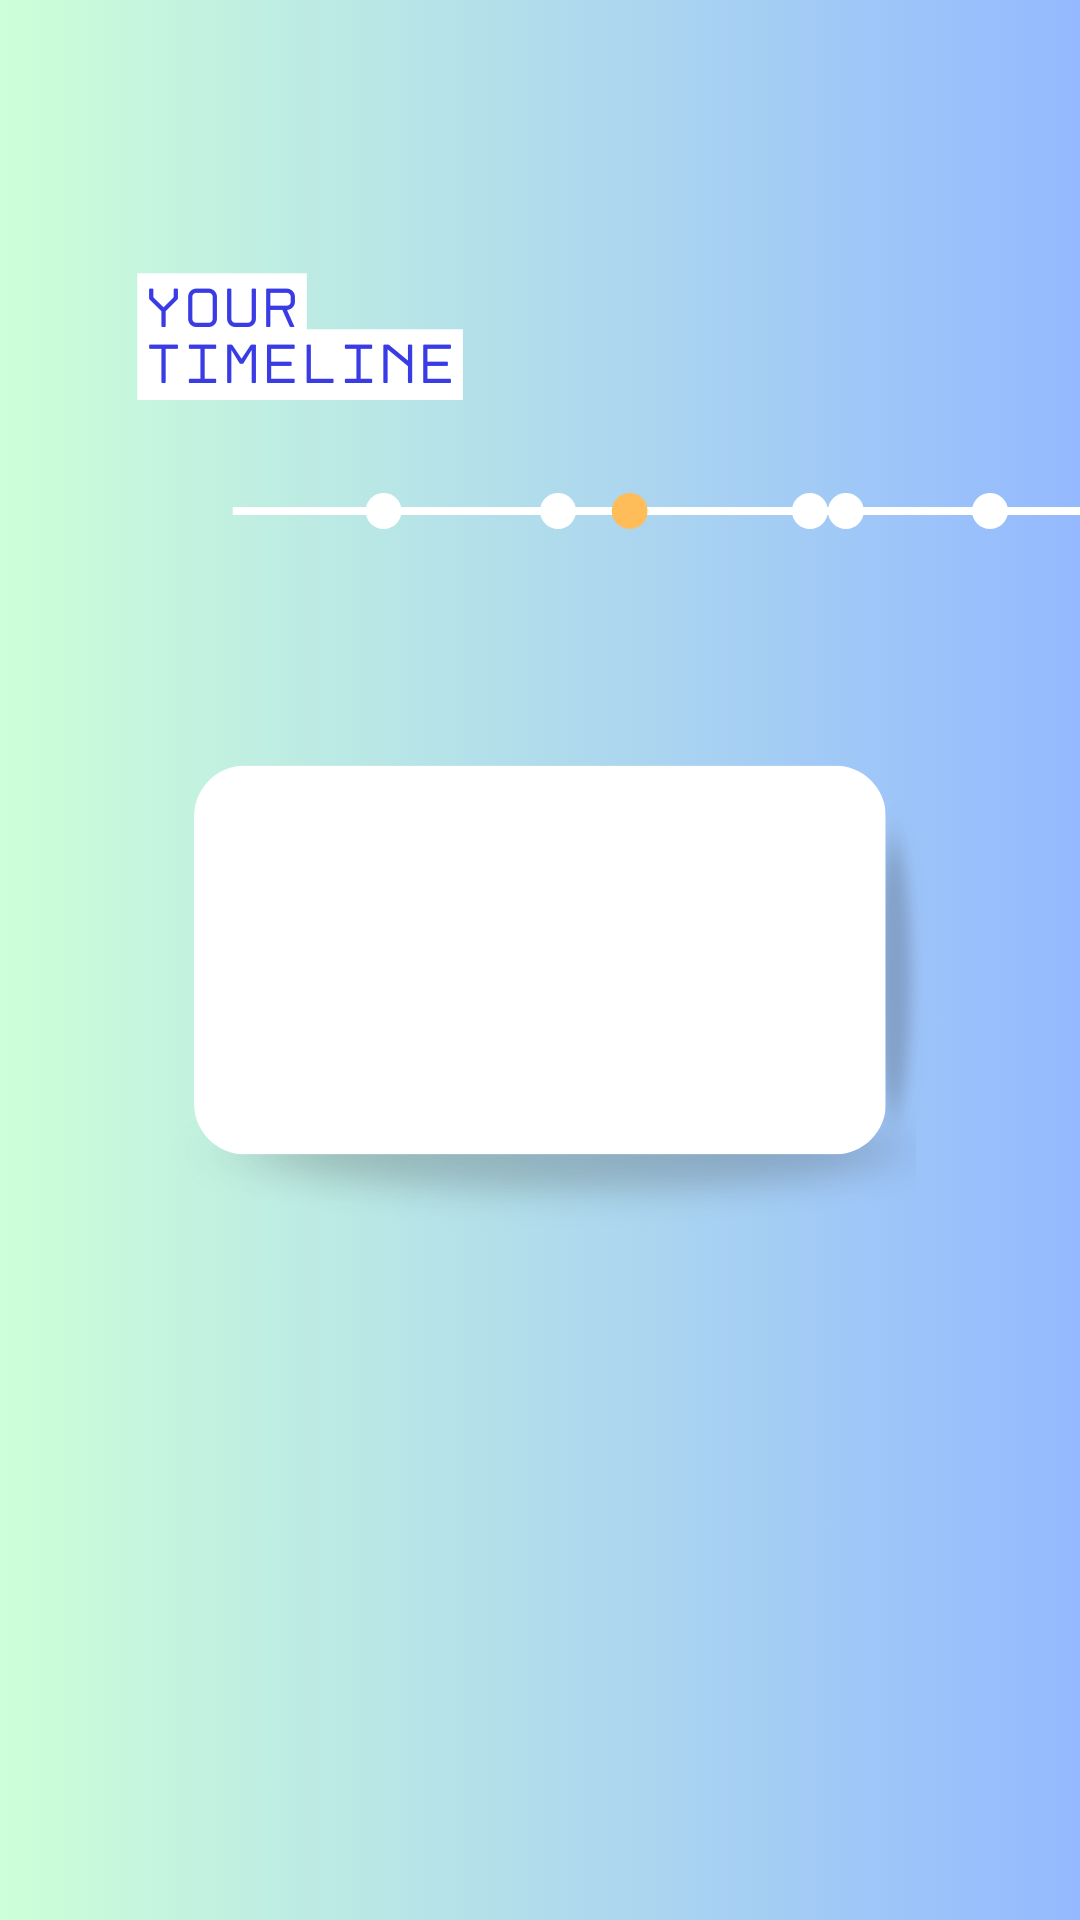
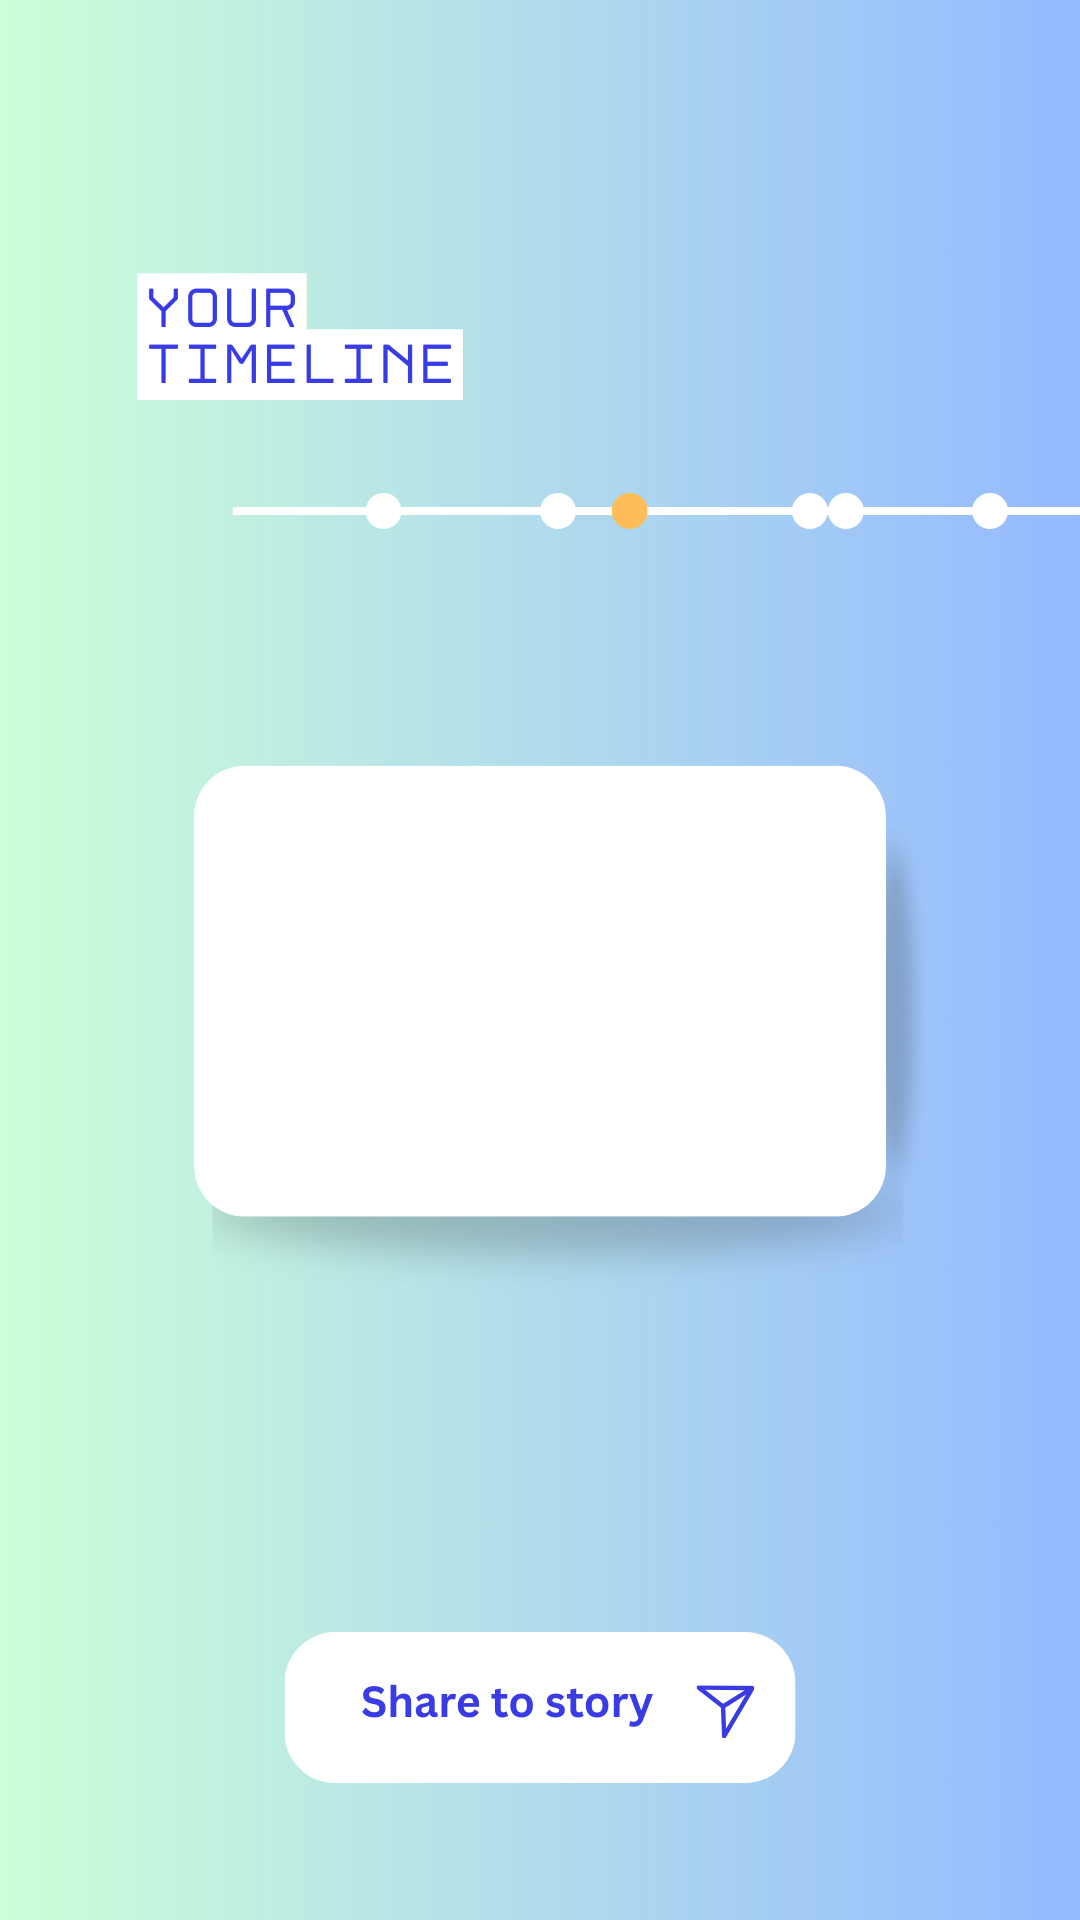
♻ Adds event description to story preview in EventsPage

Changed region(s): [[0.2444, 0.8438, 0.7639, 0.9375], [0.1833, 0.5625, 0.825, 0.6562]]

diff --git a/my-app/src/pages/EventsPage.js b/my-app/src/pages/EventsPage.js
@@ -92,8 +92,10 @@ function EventsPage() {
     const event = selectedEvent || events[events.length - 1]; // 🔥 new: selected or last event
     const titleElement = document.getElementById('story-title');
     const dateElement = document.getElementById('story-date');
+    const descriptionElement = document.getElementById('story-description');
     if (titleElement) titleElement.innerText = event.event_name;
     if (dateElement) dateElement.innerText = event.event_date.slice(0, 10);
+    if (descriptionElement) descriptionElement.innerText = event.event_description;
   
     setShowStoryPreview(true);
   };  
@@ -252,18 +254,24 @@ function EventsPage() {
                   left: '50%',
                   transform: 'translateX(-50%)',
                   width: '50%',
+                  maxWidth: '300px', 
                   display: 'flex',
                   flexDirection: 'column',
                   alignItems: 'flex-start',
                   textAlign: 'left',
                   padding: '20px',
-                  gap: '20px',
+                  gap: '10px',
+                  wordBreak: 'break-word',
+                  overflowWrap: 'break-word',
                 }}>
-                  <h2 style={{ fontSize: '16px', fontWeight: '700', color: '#1e293b', margin: 0 }}>
+                  <h2 style={{ fontSize: '14px', fontWeight: '700', color: '#1e293b', margin: 0 }}>
                     {(selectedEvent || events[events.length - 1])?.event_name}
                   </h2>
-                  <p style={{ fontSize: '12px', color: '#64748b', margin: 0 }}>
+                  <p style={{ fontSize: '10px', color: '#64748b', margin: 0 }}>
                     {(selectedEvent || events[events.length - 1])?.event_date.slice(0, 10)}
+                  </p>
+                  <p style={{ fontSize: '10px', color: '#64748b', margin: 0 }}>
+                    {(selectedEvent || events[events.length - 1])?.event_description}
                   </p>
                 </div>
               </div>
